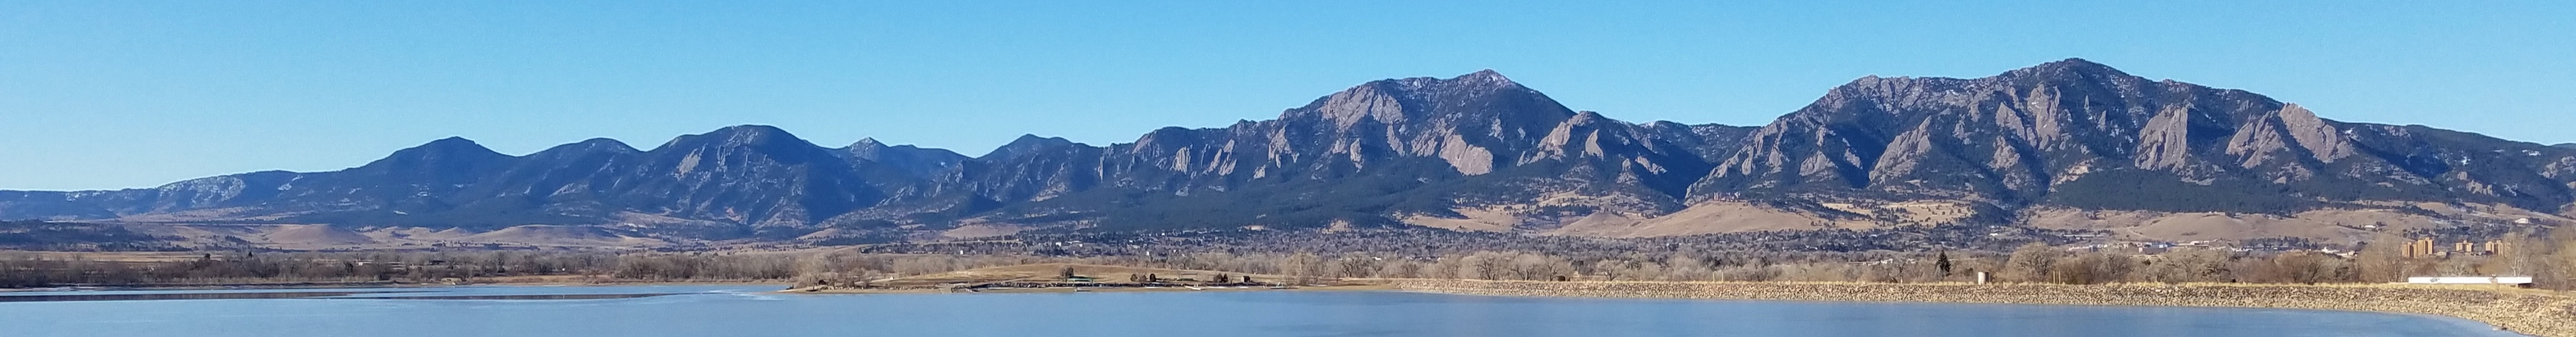
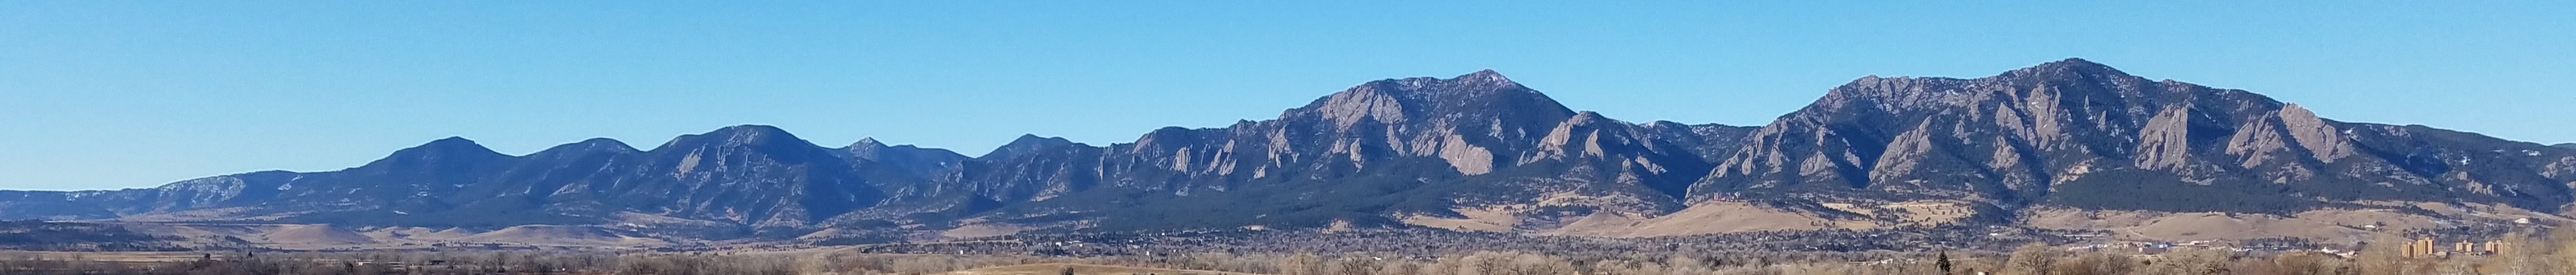
updated photos

diff --git a/_pages/posters.md b/_pages/posters.md
@@ -4,7 +4,7 @@ permalink: /posters/
 author_profile: true
 classes: splash
 header:
-    overlay_image: https://wsdaniels.github.io/images/wp.jpeg
+    overlay_image: https://wsdaniels.github.io/images/seattle.jpg
 ---
 
 {% for category in site.data.posters.categories %}

diff --git a/_pages/talks.md b/_pages/talks.md
@@ -4,7 +4,7 @@ permalink: /talks/
 author_profile: true
 classes: splash
 header:
-    overlay_image: https://wsdaniels.github.io/images/rmnp.jpg
+    overlay_image: https://wsdaniels.github.io/images/utah.jpg
 ---
 
 {% for category in site.data.talks.categories %}

diff --git a/_pages/code.md b/_pages/code.md
@@ -4,7 +4,7 @@ permalink: /code/
 author_profile: true
 classes: splash
 header:
-    overlay_image: https://wsdaniels.github.io/images/utah3.jpeg
+    overlay_image: https://wsdaniels.github.io/images/twin_lakes.jpeg
 
 ---
 
